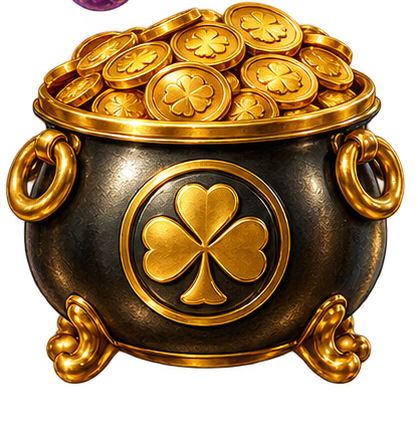
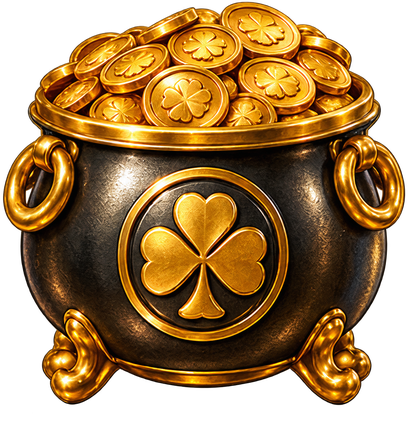
package clean final symbol assets and pulse bonus trigger symbols

diff --git a/tools/prepare_assets.py b/tools/prepare_assets.py
@@ -5,7 +5,7 @@ No reference screenshot is used by this pipeline. Pillow is required only for au
 import argparse,json,hashlib
 from pathlib import Path
 from PIL import Image,ImageFilter,ImageDraw
-p=argparse.ArgumentParser();p.add_argument('--symbols',required=True);p.add_argument('--decor',required=True);p.add_argument('--ui',required=True);p.add_argument('--background',required=True);p.add_argument('--logo');args=p.parse_args()
+p=argparse.ArgumentParser();p.add_argument('--symbols',required=True);p.add_argument('--decor',required=True);p.add_argument('--ui',required=True);p.add_argument('--background',required=True);p.add_argument('--logo');p.add_argument('--pot');args=p.parse_args()
 root=Path(__file__).resolve().parents[1]/'app/src/main/assets';(root/'symbols').mkdir(exist_ok=True);(root/'art').mkdir(exist_ok=True)
 def cell(path,cols,rows,n):
  im=Image.open(path).convert('RGBA');w,h=im.size;return im.crop((round((n%cols)*w/cols),round((n//cols)*h/rows),round((n%cols+1)*w/cols),round((n//cols+1)*h/rows)))
@@ -18,7 +18,9 @@ def trimmed(im):
  box=im.getchannel('A').point(lambda a:255 if a>20 else 0).getbbox();return im.crop(box) if box else im
 names=['bell','seven','clover','lemon','orange','grapes','watermelon','diamond','pot']
 for i,n in enumerate(names):
- im=Image.open(args.symbols).convert('RGBA');sw,sh=im.size; regions=[(0,0,1/3,.359),(1/3,0,2/3,.359),(2/3,0,1,.359),(0,.359,1/3,.662),(1/3,.359,2/3,.662),(2/3,.359,1,.650),(0,.662,1/3,1),(1/3,.662,2/3,1),(2/3,.650,1,1)];box=regions[i];im=im.crop(tuple(round(v*(sw if j%2==0 else sh)) for j,v in enumerate(box)));save(im,Path('symbols')/(n+'.webp'))
+ im=Image.open(args.symbols).convert('RGBA');sw,sh=im.size; regions=[(0,0,1/3,.359),(1/3,0,2/3,.359),(2/3,0,1,.359),(0,.359,1/3,.662),(1/3,.359,2/3,.662),(2/3,.359,1,.650),(0,.662,1/3,1),(1/3,.662,2/3,1),(2/3,.650,1,1)];box=regions[i];im=im.crop(tuple(round(v*(sw if j%2==0 else sh)) for j,v in enumerate(box)))
+ if n=='pot' and args.pot:im=Image.open(args.pot).convert('RGBA').resize((418,439),Image.Resampling.LANCZOS)
+ save(im,Path('symbols')/(n+'.webp'))
  # Win sprites include a separate alpha glow layer, baked for predictable Android blending.
  glow=Image.new('RGBA',im.size,(255,213,64,0));glow.putalpha(im.getchannel('A').filter(ImageFilter.GaussianBlur(14)).point(lambda a:int(a*.85)));glow.alpha_composite(im);save(glow,Path('symbols')/(n+'_win.webp'))
 decor=['tree_trunk','tree_blue','tree_red','tree_green','clover_clusters','coin','panel','spin_button','spark']

diff --git a/app/src/main/java/com/mohamadhh/goldenclover/GoldenCloverView.java b/app/src/main/java/com/mohamadhh/goldenclover/GoldenCloverView.java
@@ -74,7 +74,7 @@ public final class GoldenCloverView extends View implements Choreographer.FrameC
  private void reels(Canvas c){art(c,"reel_frame",377,241,1196,662);rect(c,GX,GY,CW*5,CH*3,0xff02120c,6);
   for(int col=0;col<5;col++){float x=GX+col*CW;for(int r=0;r<3;r++)art(c,"reel_cell",x+2,GY+r*CH+2,CW-4,CH-4);c.save();c.clipRect(x+4,GY+3,x+CW-4,GY+CH*3-3);boolean moving=g.phase==GameState.Phase.SPIN&&g.reels.stopped<=col;
    if(moving){float progress=Math.max(0,Math.min(1,(g.time-.18f)/(1.25f+col*.22f-.18f)));float distance=g.time<.18f?-26*(float)Math.sin(g.time/.18f*Math.PI):18*CH*AnimationManager.ease(progress);int step=(int)Math.floor(distance/CH);float offset=distance-step*CH;int blur=(int)(65*(1-progress)*(1-progress));for(int r=-1;r<4;r++){int s=g.reels.strip[col][32+r-step];float y=GY+r*CH+offset;bmp(c,assets.symbols[s],x+25,y+12,CW-50,CH-24,255);bmp(c,assets.symbols[s],x+30,y-28,CW-60,CH+35,blur);bmp(c,assets.symbols[s],x+30,y+40,CW-60,CH+35,blur*2/3);}}
-   else{for(int r=0;r<3;r++){int s=g.reels.symbols[col][r];float l=g.reels.landing[col];float pop=(float)Math.sin(l*9)*l*.09f;boolean glow=g.reels.glow[col][r]&&g.phase==GameState.Phase.WIN;float pulse=glow?1+.05f*(float)Math.sin(g.clock*7):1;float w=(CW-43)*(1+pop)*pulse,h=(CH-20)*(1-pop)*pulse;float y=GY+r*CH+(CH-h)/2+(float)Math.sin(l*8)*l*13;if(glow)bmp(c,assets.get("glow"),x-10,GY+r*CH-22,CW+20,CH+44,200);bmp(c,glow?assets.wins[s]:assets.symbols[s],x+(CW-w)/2,y,w,h,255);}}
+   else{for(int r=0;r<3;r++){int s=g.reels.symbols[col][r];float l=g.reels.landing[col];float pop=(float)Math.sin(l*9)*l*.09f;boolean glow=g.reels.glow[col][r]&&(g.phase==GameState.Phase.WIN||g.phase==GameState.Phase.BOUNCE);float pulse=glow?1+.05f*(float)Math.sin(g.clock*7):1;float w=(CW-43)*(1+pop)*pulse,h=(CH-20)*(1-pop)*pulse;float y=GY+r*CH+(CH-h)/2+(float)Math.sin(l*8)*l*13;if(glow)bmp(c,assets.get("glow"),x-10,GY+r*CH-22,CW+20,CH+44,200);bmp(c,glow?assets.wins[s]:assets.symbols[s],x+(CW-w)/2,y,w,h,255);}}
    c.restore();p.setColor(0xffa88f40);p.setStrokeWidth(2);c.drawLine(x+CW,GY,x+CW,GY+CH*3,p);
   }
   rect(c,GX,GY,CW*5,16,0x99000000,0);rect(c,GX,GY+CH*3-16,CW*5,16,0x77000000,0);

diff --git a/app/src/main/java/com/mohamadhh/goldenclover/game/GameState.java b/app/src/main/java/com/mohamadhh/goldenclover/game/GameState.java
@@ -15,7 +15,7 @@ public final class GameState {
  public boolean buyBonus(){if(busy())return false;if(credit<20*bet.value){notice("BONUS COSTS 20 × BET");return false;}credit-=20*bet.value;win=0;for(int c=0;c<5;c++)for(int r=0;r<3;r++)reels.symbols[c][r]=3;for(int i=0;i<5;i++)reels.symbols[i][i%3]=2;beginBonus();return true;}
  public void notice(String s){ui.message=s;ui.messageTime=3;}
  private void enter(Phase p){phase=p;time=0;}
- private void beginBonus(){bonus.begin(reels.symbols,random,bet.value);tree=random.nextInt(3);enter(Phase.BOUNCE);events|=TRIGGER;}
+ private void beginBonus(){for(int c=0;c<5;c++)for(int r=0;r<3;r++)if(reels.symbols[c][r]==2||reels.symbols[c][r]==8)reels.glow[c][r]=true;bonus.begin(reels.symbols,random,bet.value);tree=random.nextInt(3);enter(Phase.BOUNCE);events|=TRIGGER;}
  public void update(float dt){clock+=dt;time+=dt;grand+=dt*.27;major+=dt*.08;ui.messageTime=Math.max(0,ui.messageTime-dt);ui.popup=ui.betMenu?Math.min(1,ui.popup+dt*6):0;
   switch(phase){
    case IDLE:if(ui.auto&&time>.7f)spin();break;
